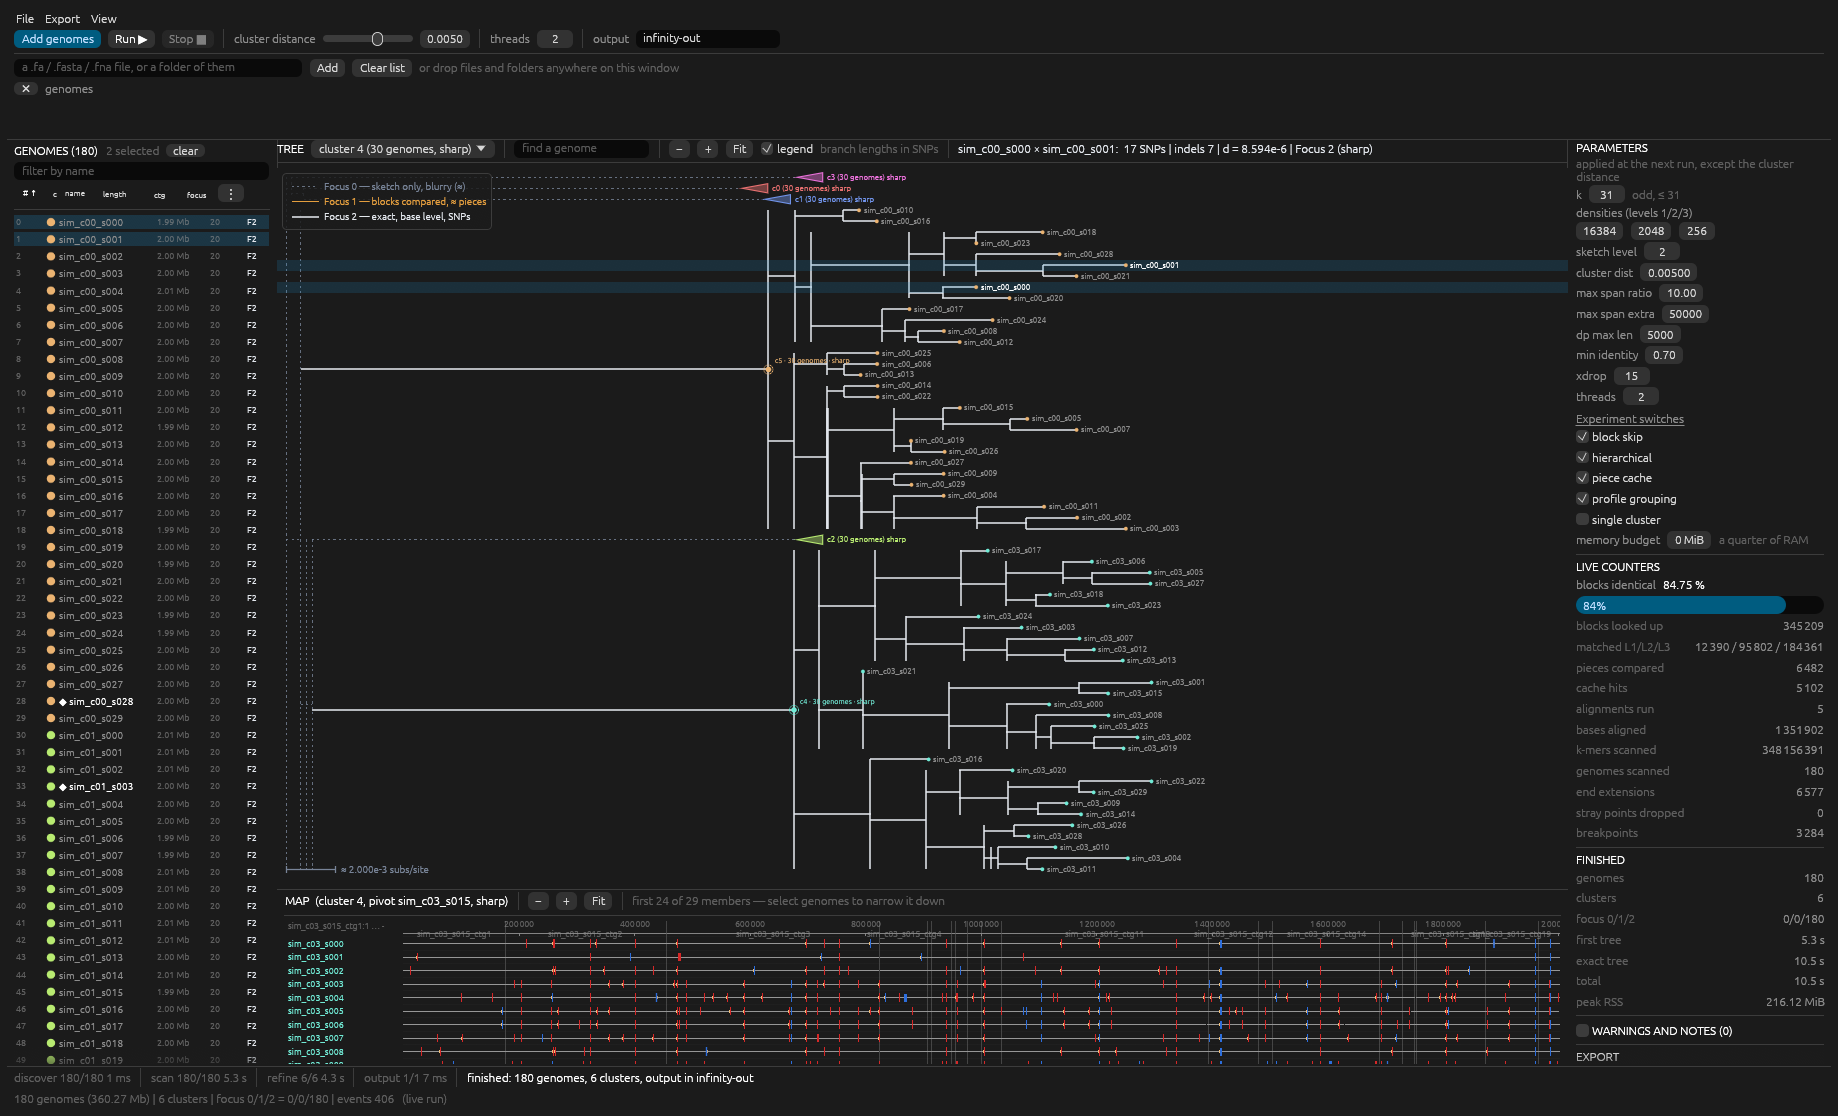
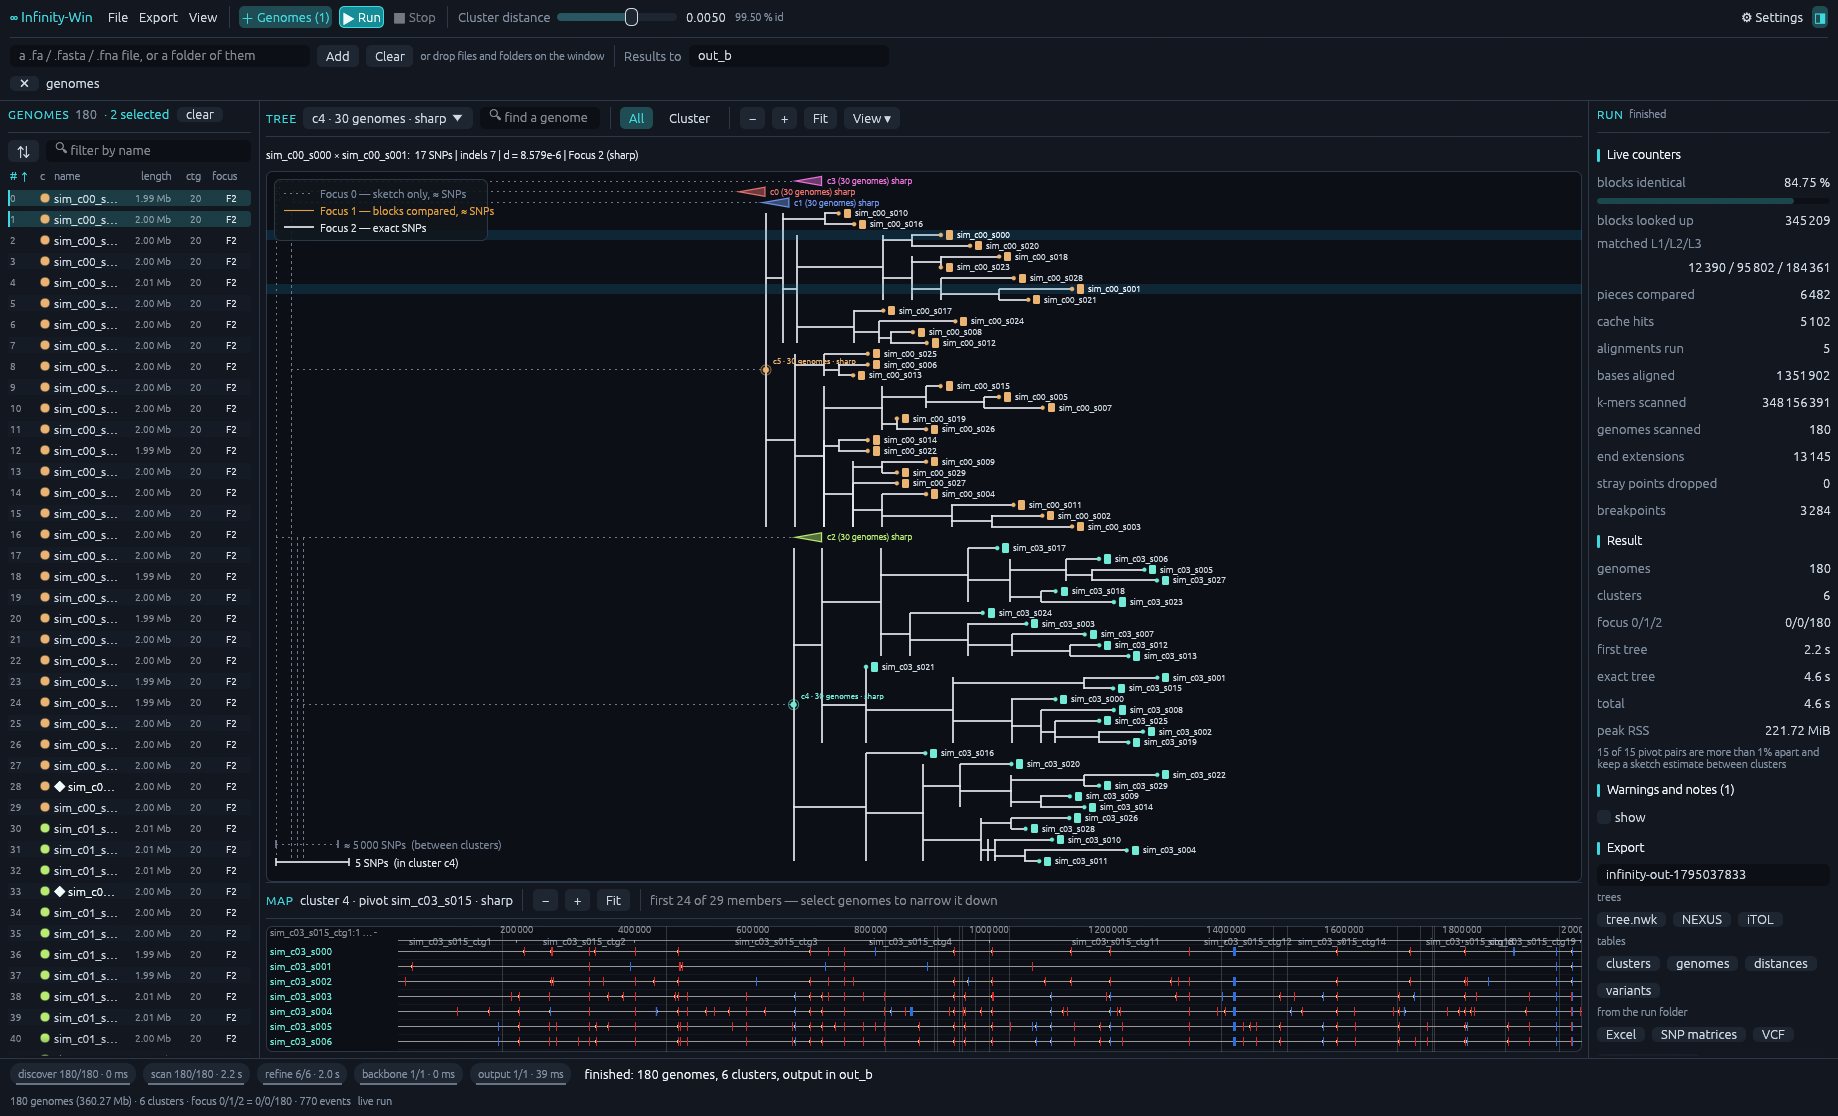
README: new screenshots of the 0.2 desktop program

diff --git a/README.md b/README.md
@@ -78,19 +78,26 @@ are lower than SKA2's; use `raw_snps` there.
 ## Screenshots
 
 **During a run.** 180 simulated genomes in 6 clusters. Two clusters are already
-exact (solid triangles, "sharp"); the other four still show their sketch-only
-estimate (dotted branches, "blurry ≈").
+exact ("sharp"); the other four still show their sketch estimate (dotted,
+"blurry ≈"). Distances are drawn in SNPs, with an approximate scale between
+clusters.
 
 ![Infinity-Win during a run](docs/screenshots/live-run.png)
 
-**Finished.** Two clusters opened into their exact trees, two genomes selected
-(17 SNPs and 7 indels apart, shown above the tree), and the map of one cluster:
-each row is a genome against the cluster's pivot, red ticks are SNPs and blue
-ticks are insertions and deletions.
+**Finished.** Two clusters opened into their exact SNP trees with a scale bar in
+SNPs, two genomes selected (17 SNPs and 7 indels apart, shown above the tree),
+and the map of one cluster: each row is a genome against the cluster's pivot,
+red ticks are SNPs and blue ticks are insertions and deletions. The Run panel on
+the right exports trees (Newick, NEXUS for FigTree, iTOL), tables, the Excel
+workbook, SNP matrices, the VCF, the SNP alignment and pictures (SVG, PNG).
 
 ![Infinity-Win after a run](docs/screenshots/finished-run.png)
 
----
+**Settings.** How far to refine (Sketch, Blocks or Exact SNPs), the cluster
+distance as % identity, whether to sharpen the distances between clusters, the
+SNP thresholds for SNP clusters, and the SNP rules.
+
+![Infinity-Win settings](docs/screenshots/settings.png)
 
 ## Install
 
